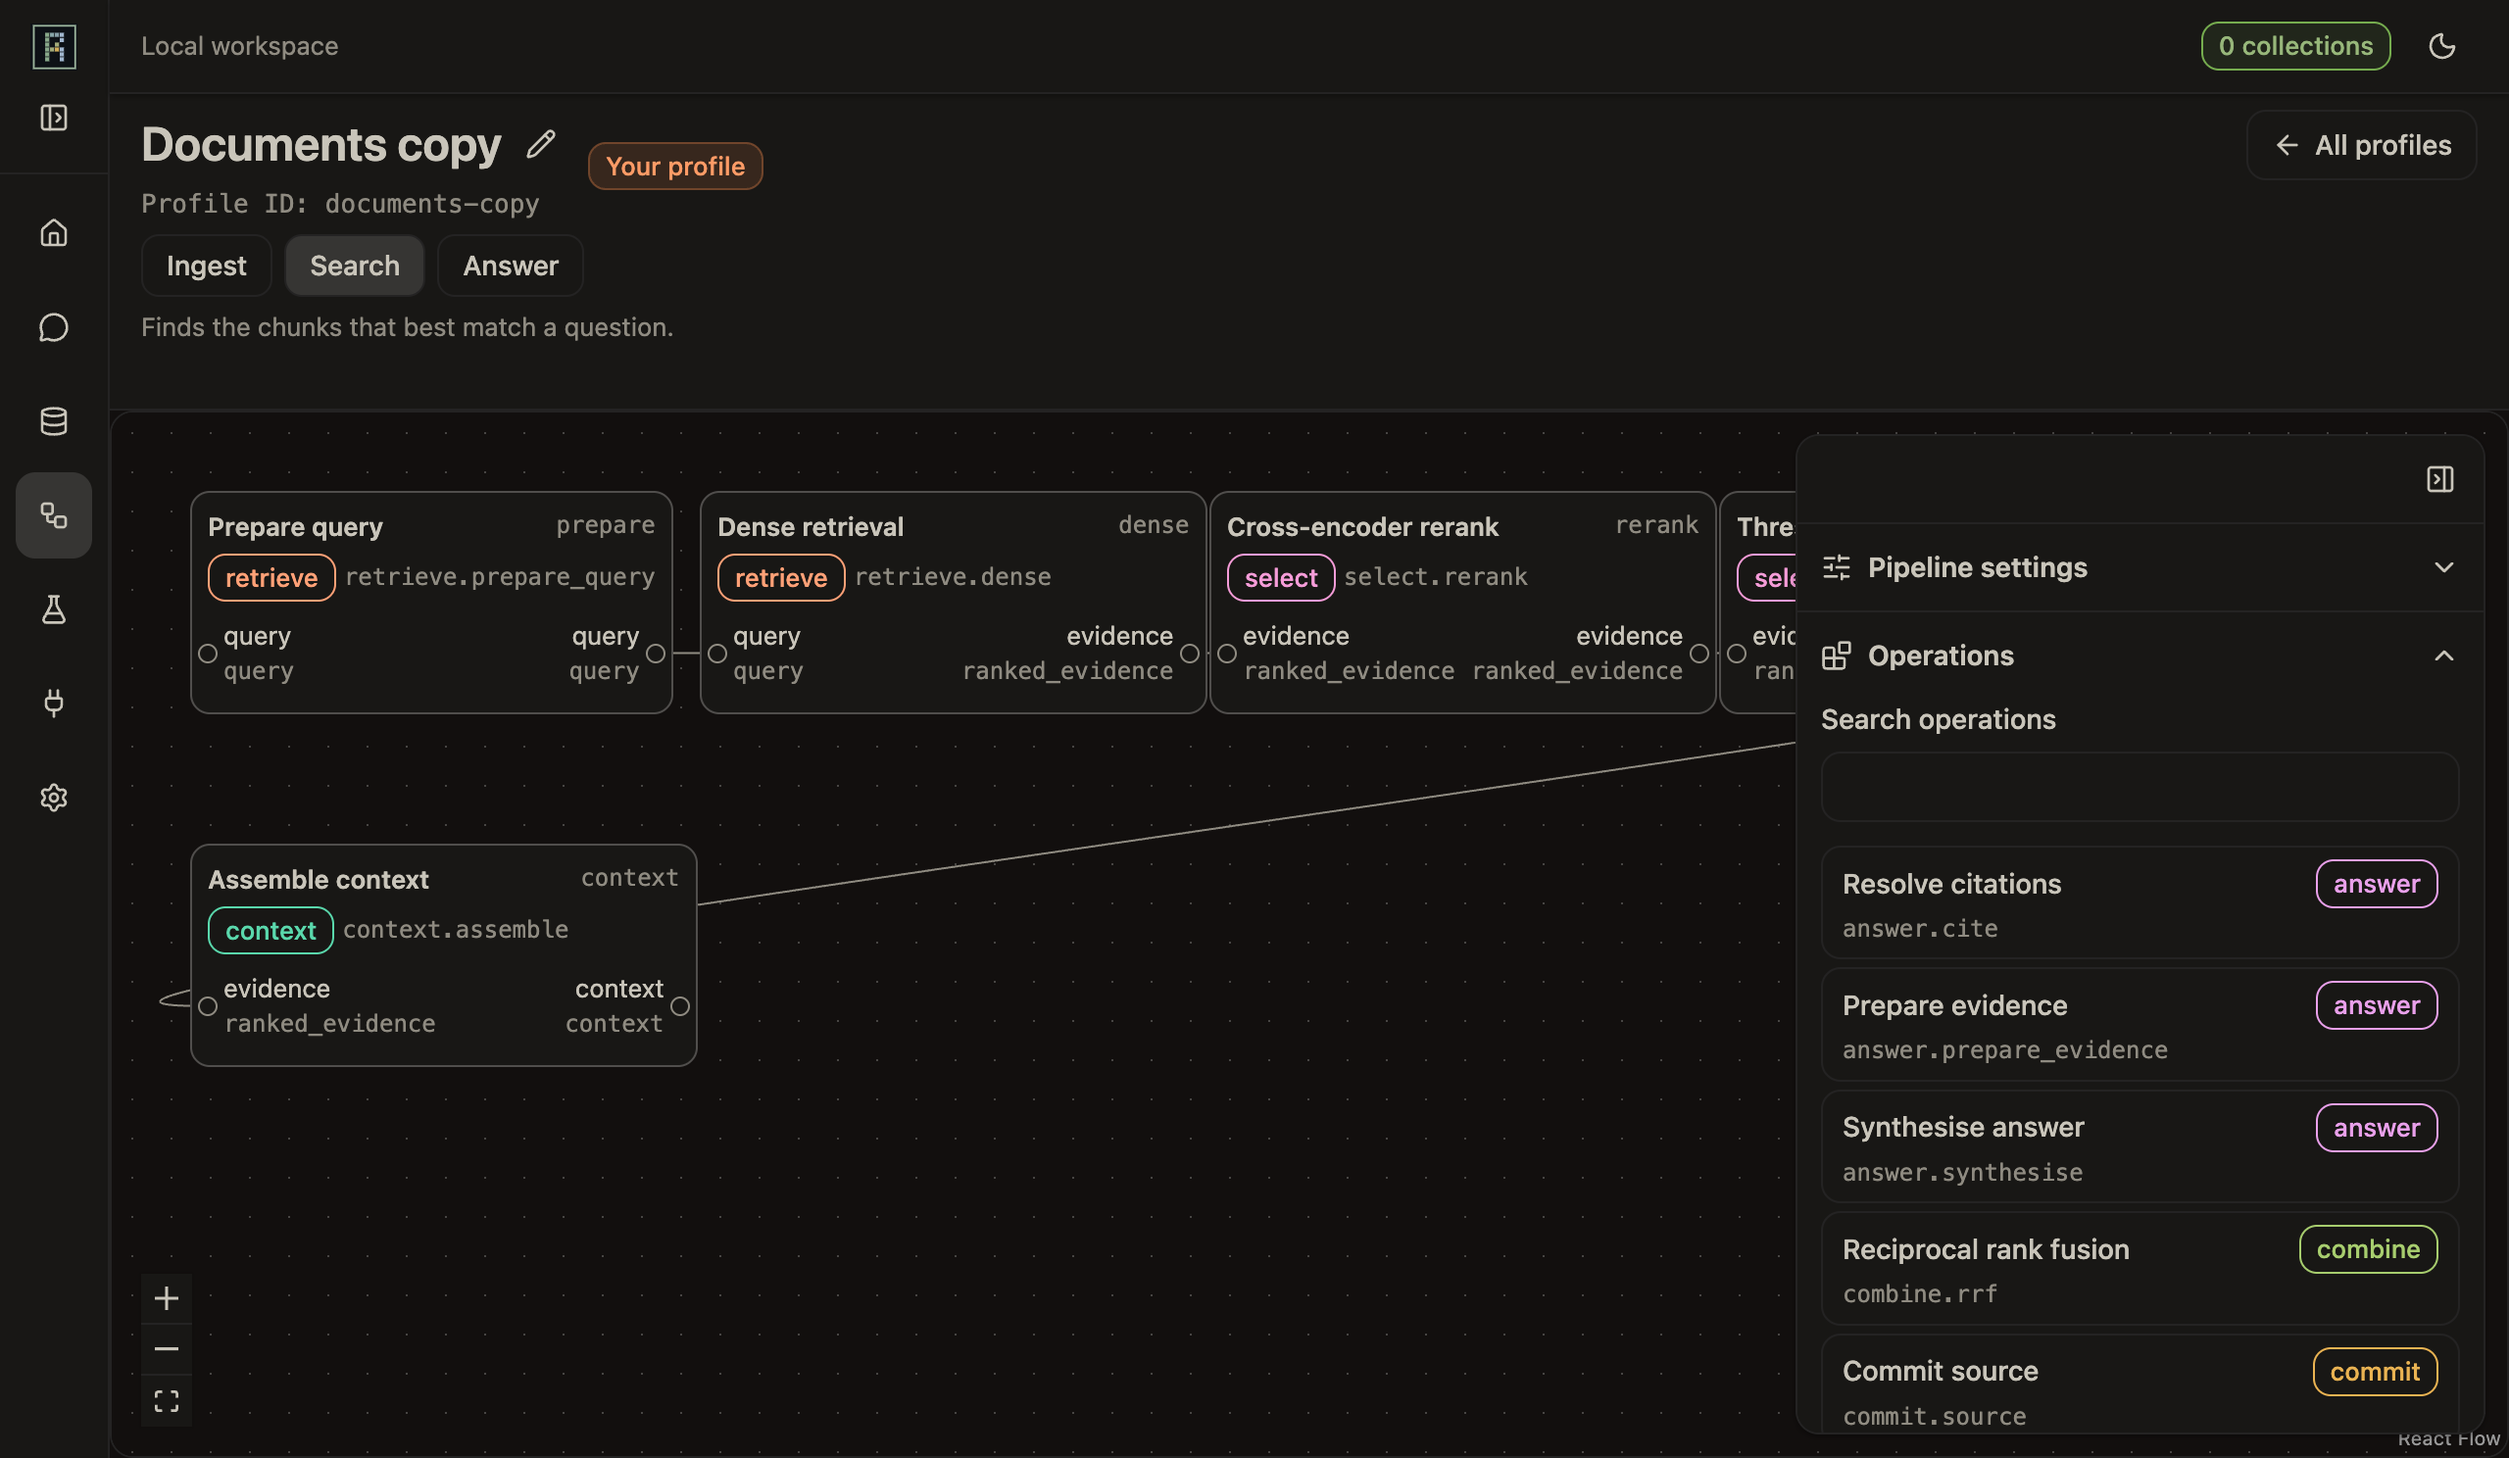
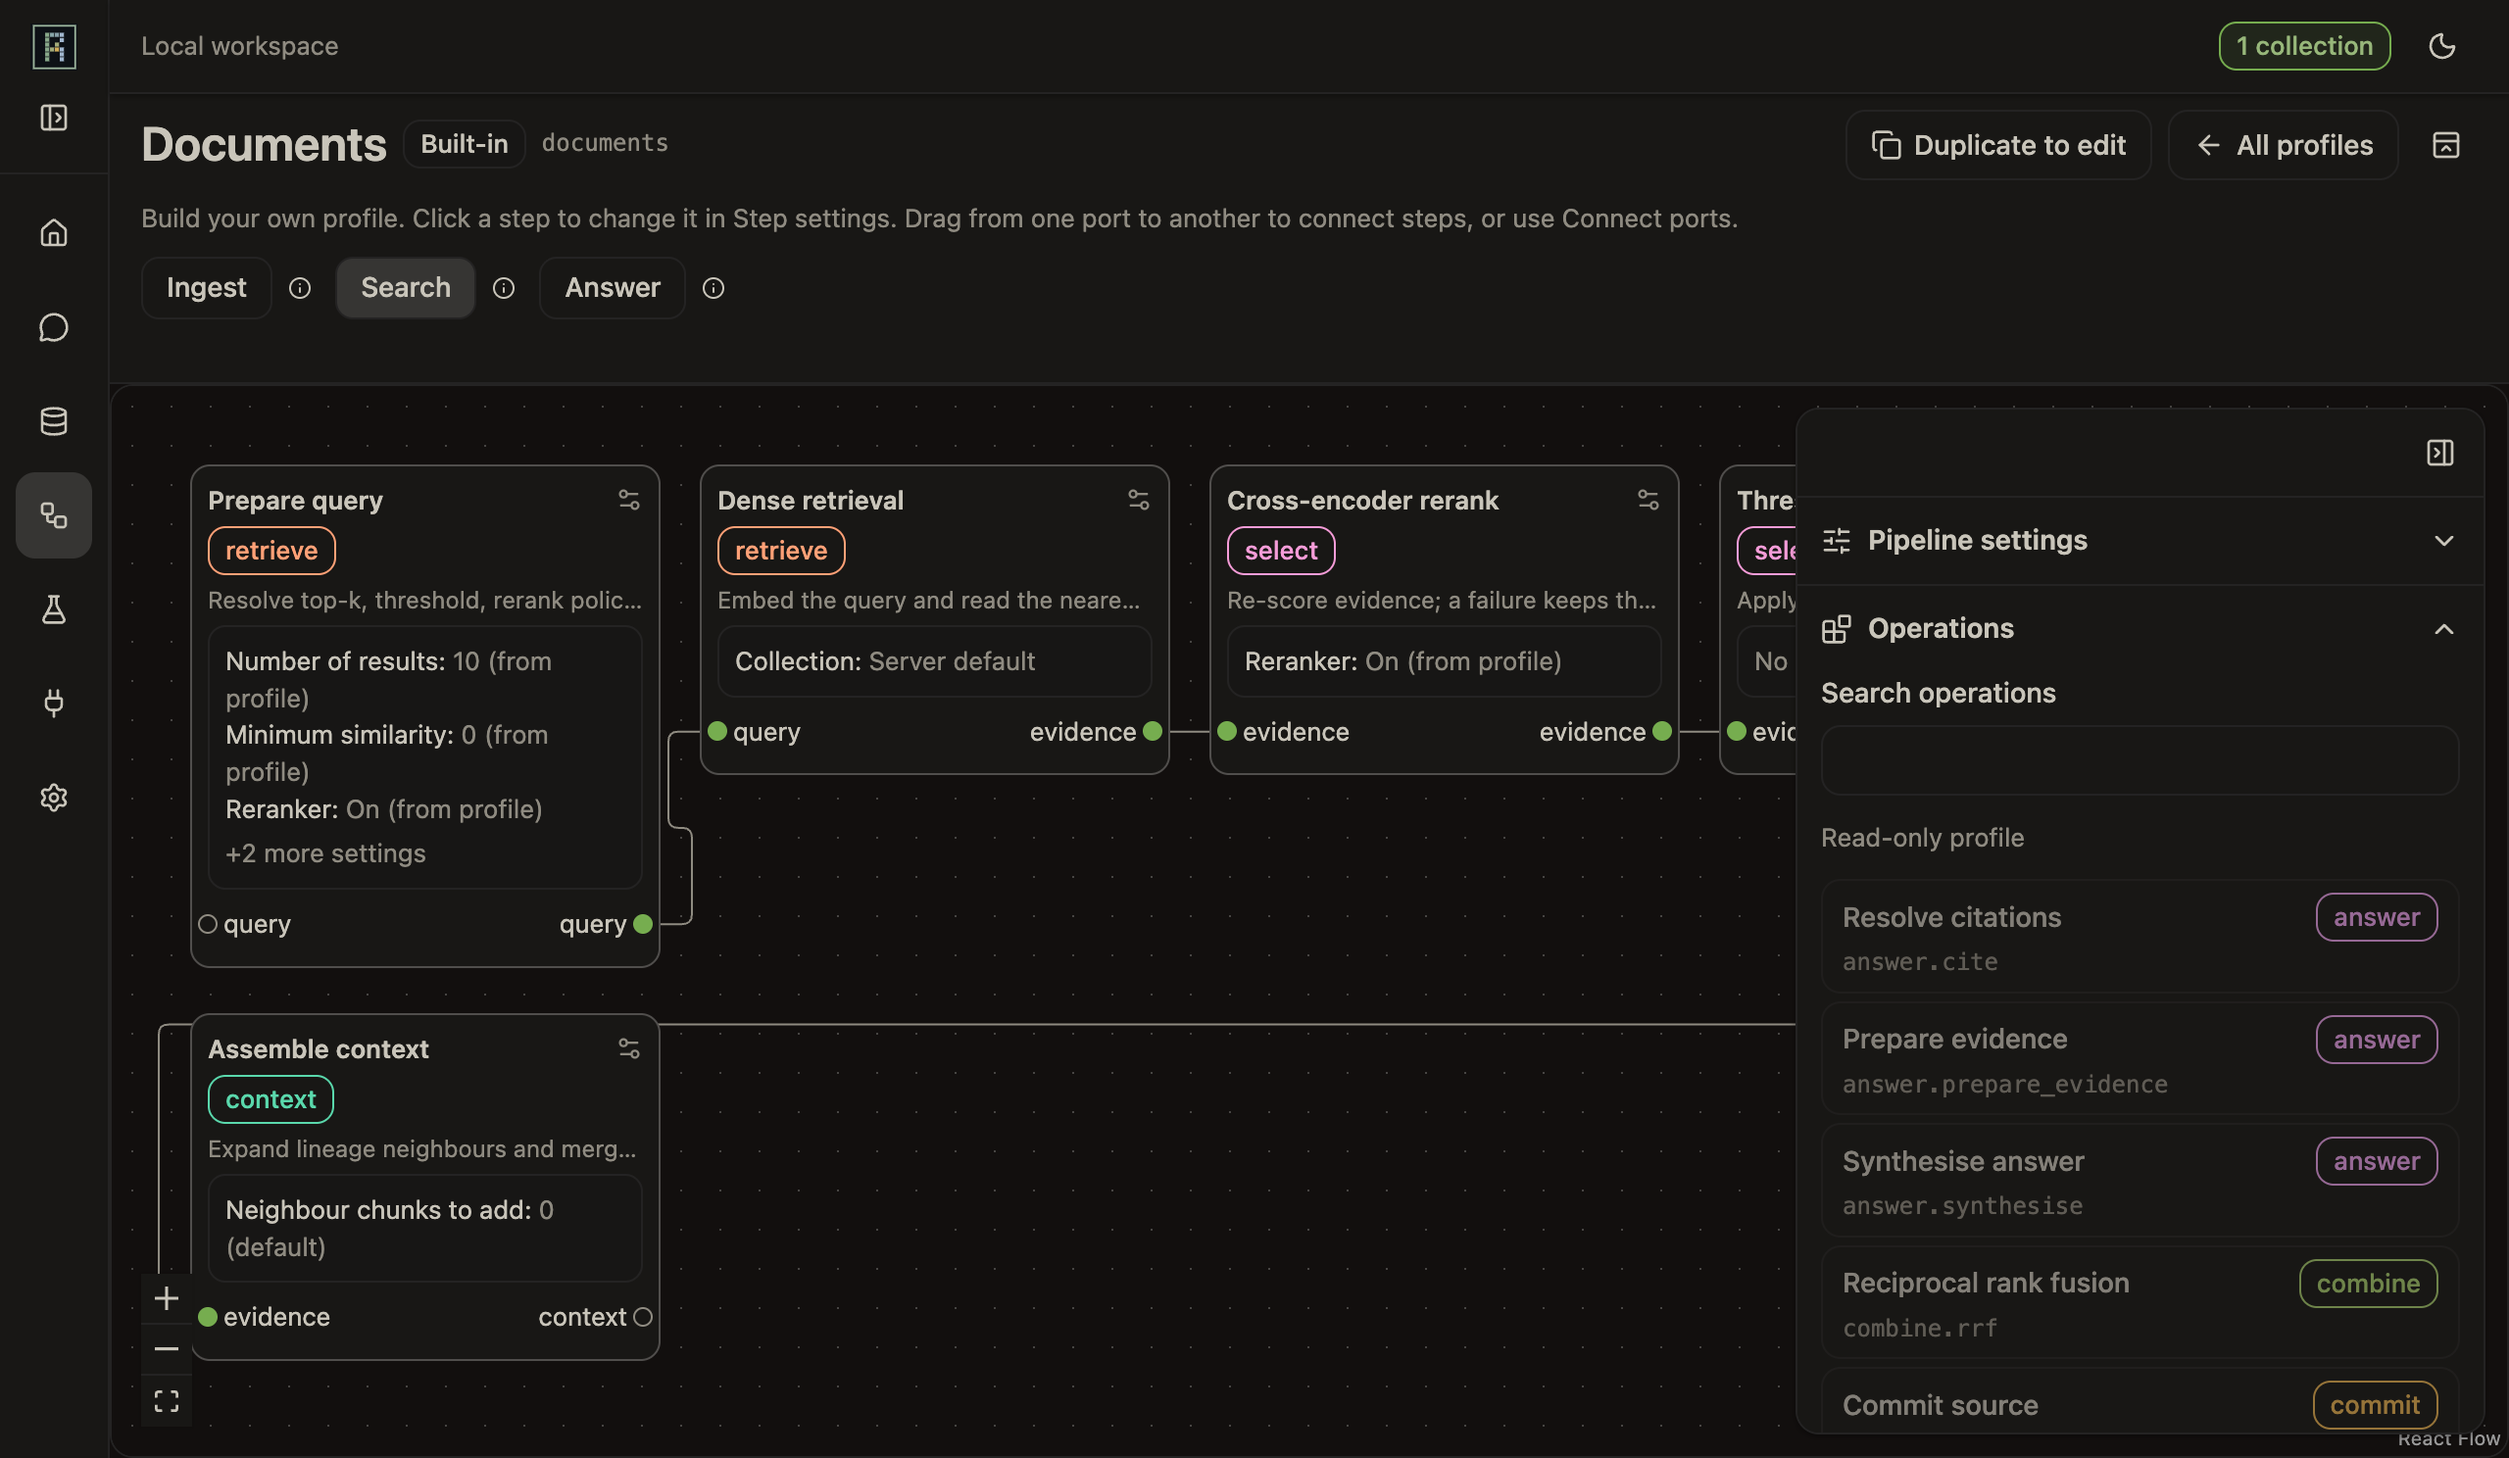
docs(web): describe the clarified Studio canvas and refresh screenshots

diff --git a/docs/guides/web-workspace.md b/docs/guides/web-workspace.md
@@ -398,6 +398,76 @@ Select "Collapse panel" to shrink the panel to a narrow icon rail. Each rail but
 
 On a window narrower than 1024 px, the panel sits under the flow surface and shows its sections. The icon rail is not available.
 
+#### Page header
+
+The header shows the profile name, the pipeline tabs and, at the right, the "All profiles" link. For a built-in profile, the "Duplicate to edit" button sits to the left of "All profiles".
+
+One line above the pipeline tabs says how to edit the canvas: "Build your own profile. Click a step to change it in Step settings. Drag from one port to another to connect steps, or use Connect ports."
+
+Each pipeline tab has an "i" info button. Click it to open a popover with what that pipeline does and, for a built-in profile, why the profile is read-only. Press Escape, click elsewhere or click the button again to close it.
+
+Click the panel-top icon at the right end of the title row ("Hide header") to slide the intro line and the pipeline tabs up. The title row stays, with "Duplicate to edit" and "All profiles", and the canvas takes the room. The same icon now reads "Show header". Click it to bring the intro line and the tabs back. The hidden part does not take keyboard focus, and notices stay visible. The header is shown again each time you open the canvas.
+
+#### Step cards
+
+Each step on the canvas has a card. A card shows these items, from top to bottom:
+
+1. The step name, the family badge and a settings icon.
+2. The node ID in muted text. It shows only when two steps have the same name.
+3. A one-line summary of what the step does. Click the summary to read the whole sentence on the card, and click it again to fold it. Using the summary does not select the card.
+4. A mini card with the settings of the step. It shows up to three main settings with their values, for example "Number of results: 10 (from profile)". When the step has more settings, the mini card ends with a button "+2 more settings". Click it to show the other settings in the same mini card, and click "Show fewer settings" to fold them. The button does not select the card. An expanded card can grow taller than its grid row, so it moves above the cards around it.
+5. Inside the same mini card: "No settings" when the step has no settings. The Embed chunks card shows the embedding model instead: "Model: nomic-embed-text (fixed for collections that already hold vectors)". The model comes from the server connections. You cannot change it on the canvas.
+6. The run status, the Bypassed and Unavailable badges, the port names and the issue messages.
+
+The names at the left and right edges are ports: inputs on the left and outputs on the right. The circle beside a port name is its handle. A handle turns green when the port has a connection, and stays neutral when it has none.
+
+The text in brackets after a value tells you where the value comes from:
+
+1. "set here": the step sets the value.
+2. "from pipeline settings": the pipeline graph sets the value.
+3. "from profile": the base profile supplies the value.
+4. "from server settings": the server settings supply the value.
+5. "default": the setting has a fixed default.
+
+Values show without a press on Validate. The canvas checks the draft by itself when the pipeline opens. It checks again 500 ms after you stop editing the graph. Moving a step or changing the selection starts no check. While a check runs, a setting that the profile supplies shows "From profile" with no number. After you edit the graph, the values disappear until the new check returns. The automatic check never changes the issue list. Only "Validate" changes it.
+
+Select a card to open Step settings for that step. With the keyboard, move focus to the card and press Enter or Space. The accessible name of a card is the step name followed by "step", for example "Threshold and top-k step". The node ID is added when two steps have the same name.
+
+#### Connection lines
+
+The canvas draws each connection as a smooth-step line: right-angle bends with rounded corners. The shape is only how the line looks. It is not saved in the graph or in the layout. A connection from a step in one row back to a step in the next row still crosses the canvas, because the canvas places four steps in each row.
+
+#### Edge animation during a run
+
+While a run is live, the edge into a step that runs shows a moving blue line. When that step finishes with success, the edge into it turns green and moves for 1.5 seconds, so you see the data move one step ahead. Then the edge goes back to normal.
+
+A run that had finished before you opened the pipeline shows no animation. A step that fails shows no green edge. If your system asks for reduced motion, the edges keep their colour and do not move.
+
+#### Step settings
+
+The Step settings section shows the selected step. Its heading is the step name. These items follow:
+
+1. The family badge and the one-line summary of the step.
+2. "Bypass this step", when the step can be bypassed.
+3. One control for each setting. Each control has a plain label, for example "Number of results" or "Reranker". A choice list shows readable options, for example "File type". The saved value does not change.
+4. A note under each control that says which value is in use, for example "Value in use: 10 (from profile)". The text in brackets follows the same words as the step card.
+5. "Graph inputs and outputs" and "Remove step".
+6. A closed "Details" area.
+
+While the automatic check runs, a setting that the profile supplies shows "Comes from the profile. The value shows when the check finishes." The value disappears again each time you edit the graph. It comes back when the next check returns. Moving a step or changing the selection keeps the value.
+
+Open "Details" to see the technical information:
+
+1. The node ID.
+2. The operation ID and version.
+3. The full description.
+4. The path of each setting, for example `retrieval.top_k`.
+5. The port types.
+6. The issue codes.
+7. The detail text of each control.
+
+Issue messages show outside "Details". Only the issue codes stay inside it.
+
 ### Database and profile in the Knowledge Base
 
 Each collection lives in one vector database. The workspace shows it in four places:
